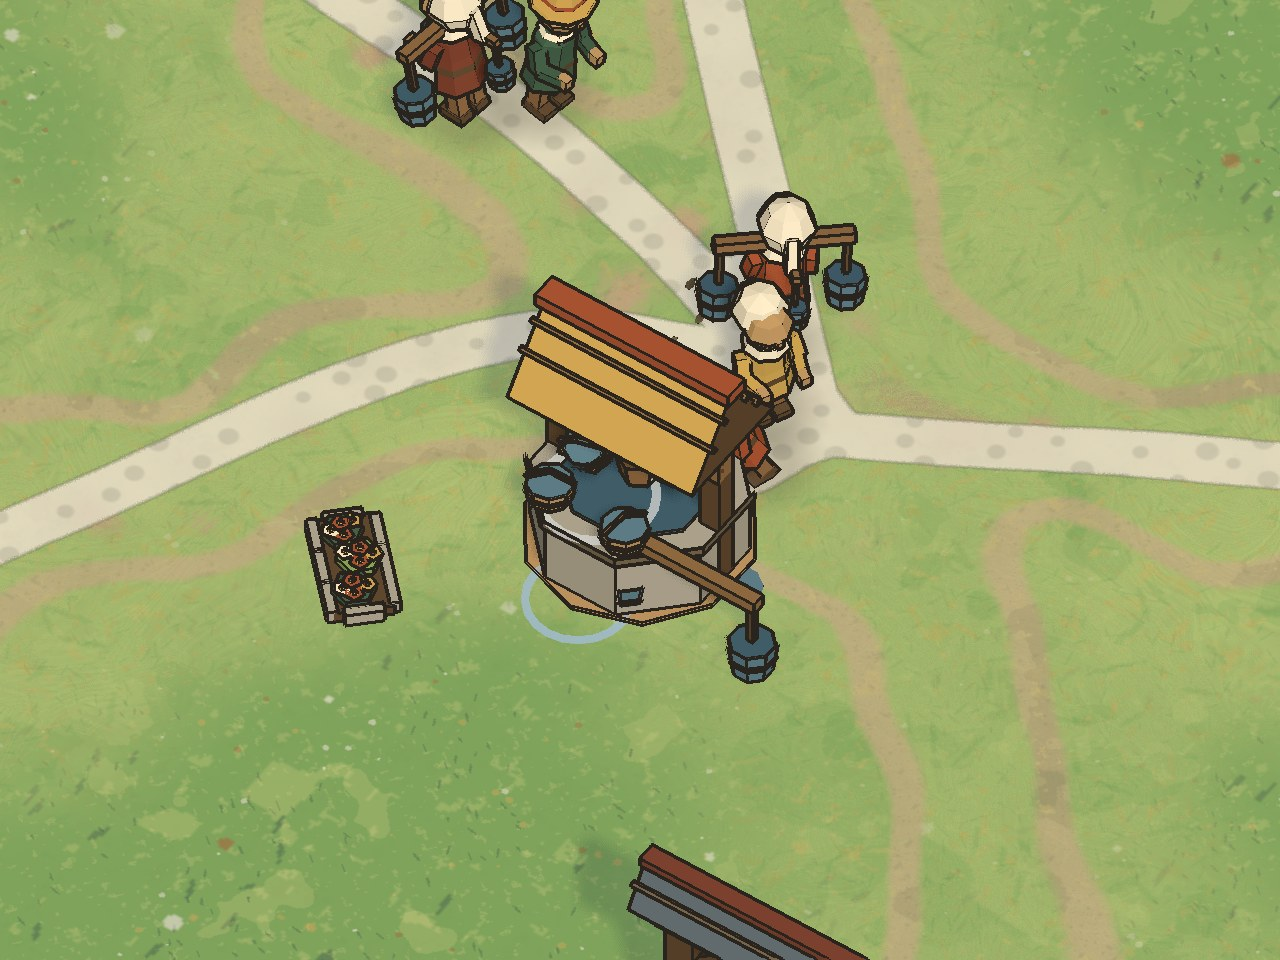
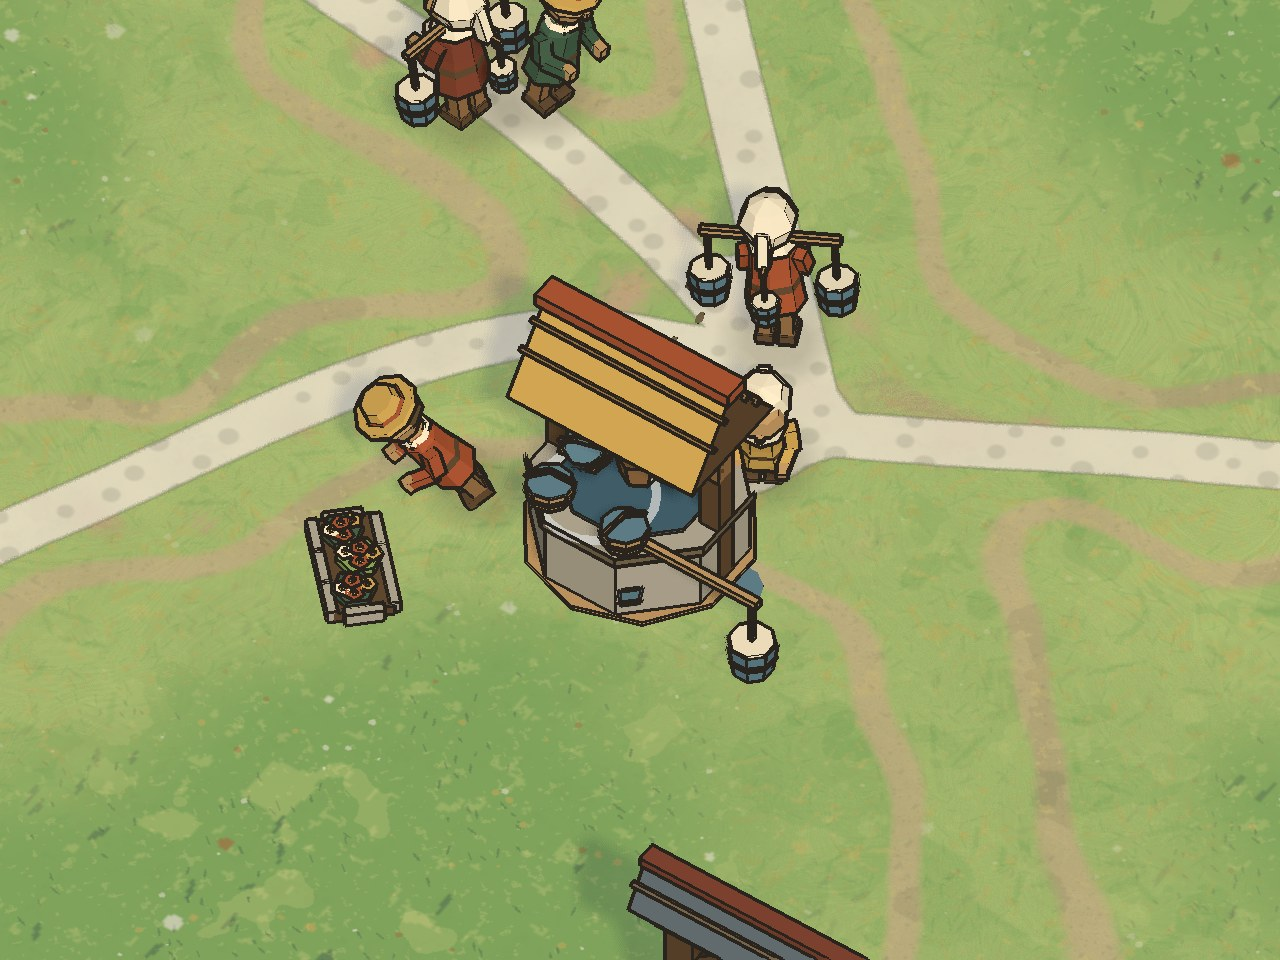
Snapshot: fix round: one shift per line, site table cleared at exit, well wet earth, pictures and strips after the fix, progress notes
Claude-Session: https://claude.ai/code/session_017q4atD9S5umMXhdUL1pfcb

diff --git a/game/scripts/town/TownVillagers.Line.cs b/game/scripts/town/TownVillagers.Line.cs
@@ -47,6 +47,14 @@ public partial class TownVillagers
         y += MathF.Cos(h) * LineEdgeCells;
     }
 
+    /// <summary>The one heading a whole line is moved aside by: the lane's at the line's front. One shift for all keeps
+    /// the gaps between places exactly as along the lane (a shift by each point's own heading opens them on a bend).</summary>
+    private float EdgeHeading(Town t, int w, float gap)
+    {
+        WorkSites.LinePoint(t, w, _lane[w], gap, out _, out _, out float h);
+        return h;
+    }
+
     private static bool IsWorkplaceKind(PlotKind k) => k is PlotKind.Well or PlotKind.Field or PlotKind.Mill;
 
     /// <summary>Once a frame: the lane of each workplace's line, kept while its line stands (so the line never jumps lanes).</summary>
@@ -100,7 +108,7 @@ public partial class TownVillagers
             }
             float gap = LineStepCells(t.LoadLevel);
             WorkSites.LinePoint(t, w, _lane[w], gap * (1f + _qd[i]), out float lx, out float ly, out float lh);
-            ToEdge(ref lx, ref ly, lh);
+            ToEdge(ref lx, ref ly, EdgeHeading(t, w, gap));
             _lineX[i] = lx; _lineY[i] = ly;
             tx = lx; ty = ly;
             if (_qd[i] < 0.5f)
@@ -128,7 +136,7 @@ public partial class TownVillagers
                 {
                     _holders[w]++;
                     WorkSites.LinePoint(t, w, _lane[w], tail, out float lx, out float ly, out float lh);
-                    ToEdge(ref lx, ref ly, lh);
+                    ToEdge(ref lx, ref ly, EdgeHeading(t, w, gap));
                     tx = lx; ty = ly; face = HeadingYaw(lh);
                     return true;
                 }

diff --git a/game/scripts/town/work/WellWorks.cs b/game/scripts/town/work/WellWorks.cs
@@ -104,7 +104,7 @@ public partial class WellWorks : Node3D
         Wet = Math.Min(1f, Wet + 0.12f);
         var at = _w.OnPlot(_plot, new Vector3(b == 0 ? 0.15f : -0.35f, 1.05f, 0) + _toView * 0.55f);
         _w.Puffs.Ring(at, 0.25f, 0.9f, 0.7f, new Color(Palette.Limewash.Lerp(Palette.River, 0.3f), 1f));
-        _w.Puffs.Ring(_w.OnPlot(_plot, new Vector3(0, 0.03f, 0) + _toView * 1.1f), 0.4f, 1.2f, 0.9f, new Color(Palette.River, 0.8f), 0.15f);
+        // (fix round: no ring on the grass: it read as a stray halo; the wet earth carries the splash)
     }
 
     /// <summary>Someone began drawing: the two pails stand on the rim and fill as the bucket comes up.</summary>
@@ -201,7 +201,7 @@ public partial class WellWorks : Node3D
         if (_wet != null)
         {
             // darker and wider with use; trodden earth only when dry (translucent: the ink draws no hard line round it)
-            _wet.Transparency = Math.Clamp(0.6f - 0.6f * Wet, 0f, 0.95f);
+            _wet.Transparency = Math.Clamp(0.3f - 0.4f * Wet, 0f, 0.95f);   // fix round: wet earth that reads, darker with use
             float s = (0.8f + 0.25f * Wet) * k;
             _wet.Scale = new Vector3(s, k, s);
         }

diff --git a/game/scripts/town/work/WorkPlaces.cs b/game/scripts/town/work/WorkPlaces.cs
@@ -70,7 +70,12 @@ public partial class WorkPlaces : Node3D
         OnReplaced();
     }
 
-    public override void _ExitTree() { if (Driver != null) Driver.Replaced -= OnReplaced; }
+    public override void _ExitTree()
+    {
+        if (Driver != null) Driver.Replaced -= OnReplaced;
+        // the static site table must not keep this node alive past the scene (finalized after the engine is gone)
+        WorkSites.Clear();
+    }
 
     private void OnReplaced()
     {

diff --git a/docs/plans/n5/places-progress.md b/docs/plans/n5/places-progress.md
@@ -126,3 +126,71 @@ Read-only states for the villagers' side if useful: `Main.Work.Mill.DoorOpen`, `
   model's own goods are still mixed in.
 - **A cottage**: the door leaf opens and the dark inside shows; the water butt is not drawn.
 - **Not done**: the hoist's running rope; the cottage's water butt; the mill's doorway on the camera's side (above).
+
+## Fix round (after the independent picture review, `work-review.md`)
+
+Point by point, in the coordinator's order:
+
+1. **The mill (done in code).** The doorway, the door, the step, the grain and flour sacks, the flour puffs and the
+   miller's spot now stand on the tower's flank nearest the plan's door (east or west; `MillWorks` turns all its pieces
+   onto that face with one node, `_faceYaw`), not on the north face behind the tower and sails. `PlaceSite.Spot` puts
+   the millers on that step, side by side, facing in; `WorkSites.Doorway` now asks the site (`IWorkDoorway`, added to
+   `WorkSites.cs`) so the grain sack is tipped in at that doorway. The sails stay on the north face (away from the
+   camera, so they cover nothing on the flank); the cap was not turned. The line still comes along the lane.
+2. **The figure bent double with a floating hexagon:** the hexagon was the flour sack rising from my goods point,
+   which stood 0.4 m in the air beside the worker. The goods point is now on the step (0.15 m) next to the miller's
+   new spot, so the stoop reads as lifting a sack off the step. The stoop itself (villagers' code) is unchanged.
+3. **The dark T in the crop:** the parked pack frame or handcart of a reaper. It now stands on the grass headland at
+   the west end of the reaper's row (`FieldRows.ParkAt`, through `WorkSites.ParkAt` and one line in
+   `TownVillagers.Props.cs`'s `Parked`), never on the soil or in the crop; the frame and cart are lighter wood
+   (Trail earth, `villager.py`).
+4. **The well:** the worker's spot is at the crank, the end of the windlass, a little toward the view, clear of the
+   roof (`PlaceSite.Spot` with `WellWorks.CrankSpot`); the pails and bucket tip over the rim toward the view (since the
+   first pass). The line is the villagers' line (point 8).
+5. **The field calmer:** soil Trail earth instead of Mud; ripe and green rows three lines of five slimmer tufts in one
+   tone (no dark every-third tuft); cut rows a pale straw band (Reed and thatch) with a few low stubs and no loose
+   stalks; the swath and the edge with half the loose stalks. The ink shader is not touched.
+6. **A worker buried in the crop:** the reaper stands 1.5 m behind the front piece's middle (was 1.1 m), so with the
+   villagers' 0.8 m step along the row they stay on cut ground.
+7. **The pale disc by the market's lane:** the coin hop of a delivery (`TownFeel`), 1.6 m wide, hopping from the
+   market's node on the lane and carried up the screen. It now hops from the table's edge and is 1.05 m.
+8. **The line on one edge of the lane:** `TownVillagers.Line.cs` moves every place of a line a third of a cell to the
+   right-hand edge of the lane as one walks toward the place (`ToEdge`), one body per step as before.
+9. **Loads told apart:** grain is an ochre sack (Reed and thatch), flour stays the pale sack, water is two River-blue
+   pails with a pale water top on a thin yoke (`villager.py`, models rebuilt, ledger checked).
+
+Could fix: the well's wet patch shows as wet earth (less translucent) and the stray splash ring on the grass is gone.
+Not done: the cottage door larger, the strip tool's close row.
+
+Line, old and new (point 8): `game-work` first failed at 30 fps, "the line at the Mill: places 1 and 2 stand 2.44 m
+apart (1.6 to 2.4)", because each place was moved aside by its own point's heading, which opens the gaps on a bend. Not
+the test's fault: the drawing now moves the whole line by one shift (the lane's heading at the line's front), so the
+gaps are exactly the lane's; the test is unchanged and passes.
+
+Also: `WorkPlaces._ExitTree` clears the static site table (`WorkSites.Clear()`): the table kept the places' nodes alive
+past the scene, and their finalizers logged "Handle is not initialized" at quit in `game-save` (one run in four still
+showed it after the fix; three passed clean).
+
+### Checks in the fix round (under the heavy-run lock, 12:00 to 12:18 UTC)
+
+The lock was held from 11:26 by someone else; at 11:51 I tried to remove it as stale and that was refused by the
+permission check, so I waited until it was free (12:00).
+
+| Step | Result |
+| --- | --- |
+| game-build | PASS |
+| game-town | PASS (no lock needed) |
+| game-perf | PASS `1x mean 0.709 ms worst 5.71, 539 B/frame; 8x mean 1.063 ms worst 8.08, 738 B/frame` |
+| game-playthrough | PASS `charter=33.9min buys=201` |
+| game-work | PASS `WORK RATES PASS pairs=543 gap=1.98-2.31m` (after the line fix above) |
+| game-work-places | PASS at 60, 30 and 120 fps |
+| game-motion | FAIL on CPU time, twice under the lock: `settings-close: frame 5 took 8.58 ms of CPU (gate 6)`, `esc-during-open: frame 16 took 8.67 ms of CPU (gate 6)`; load average 10 to 14 during both runs (other work on the machine outside the lock). Earlier, the villagers' checkout without the places failed the same way at the same load. |
+| game-save | PASS 3 of 4 runs; one run logged the quit-time "Handle is not initialized" lines |
+| ledger | PASS `506 rows, 480 asset files checked, 0 problems` |
+
+Pictures: `build/n5-places/now4/` with JPEG copies replacing those in `docs/plans/n5/after/`; strips
+`build/n5/strips-after-fix/` with JPEG copies in `docs/plans/n5/strips/after/`. Seen in them: the mill's miller,
+doorway, step, sacks and flour puffs now on the east flank in full view (normal and close); the well's worker at the
+windlass's end beside the roof, pale-topped blue pails; the field lighter, rows slimmer, cut rows pale straw. Still
+wrong: the well's roof still covers the far rim; the market's coin is smaller but still a disc above the far side of
+the table; the cottage door is unchanged (small at the normal view).
